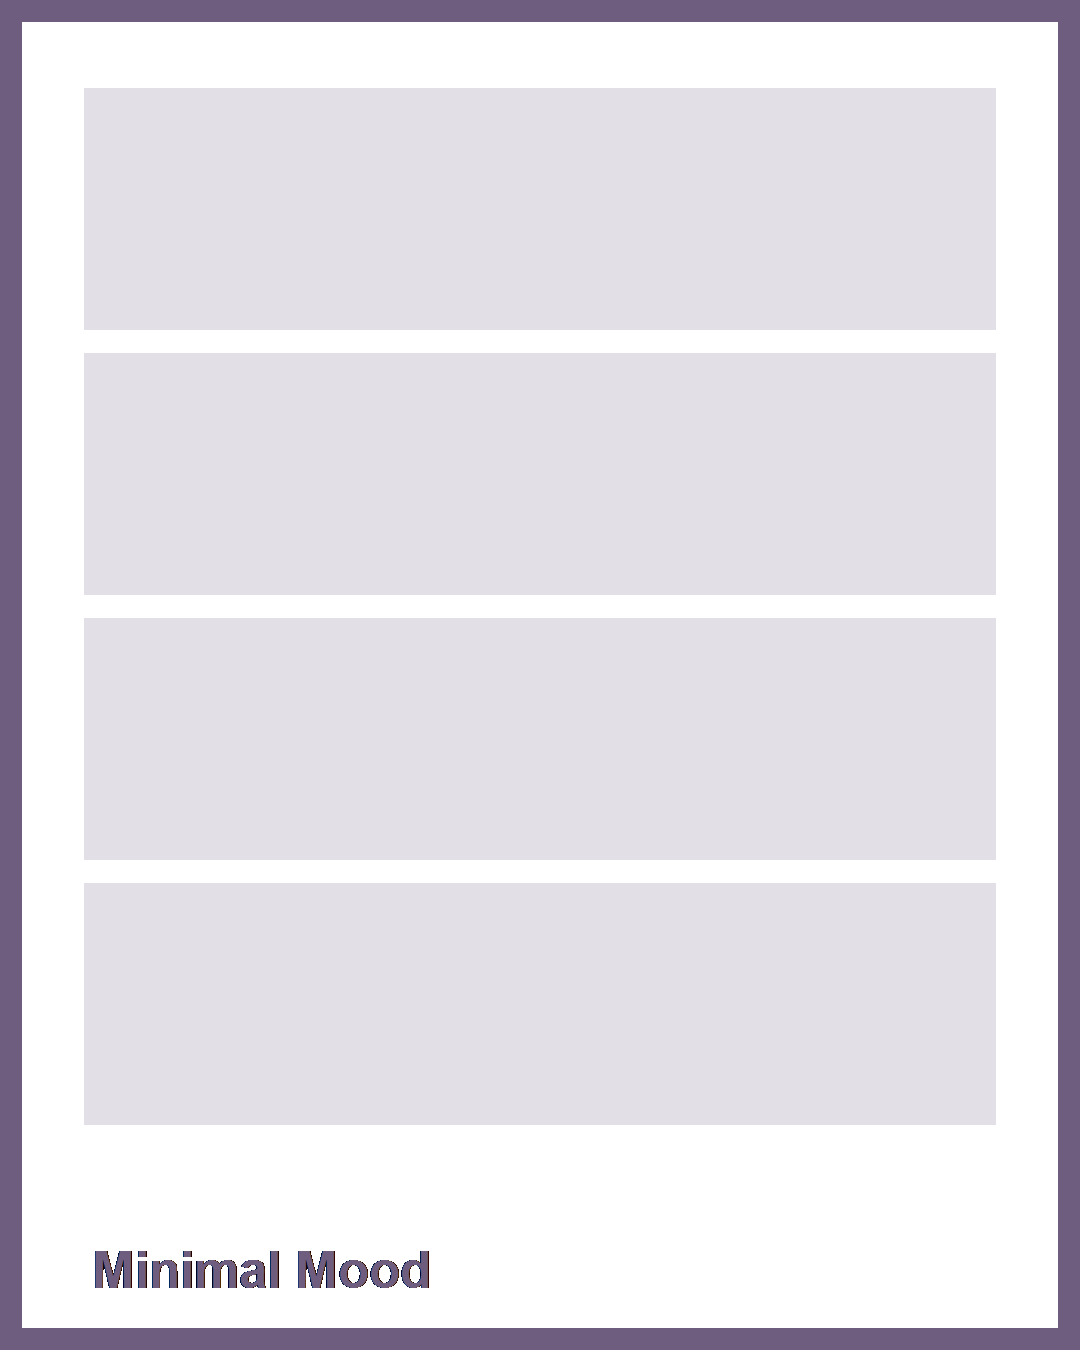
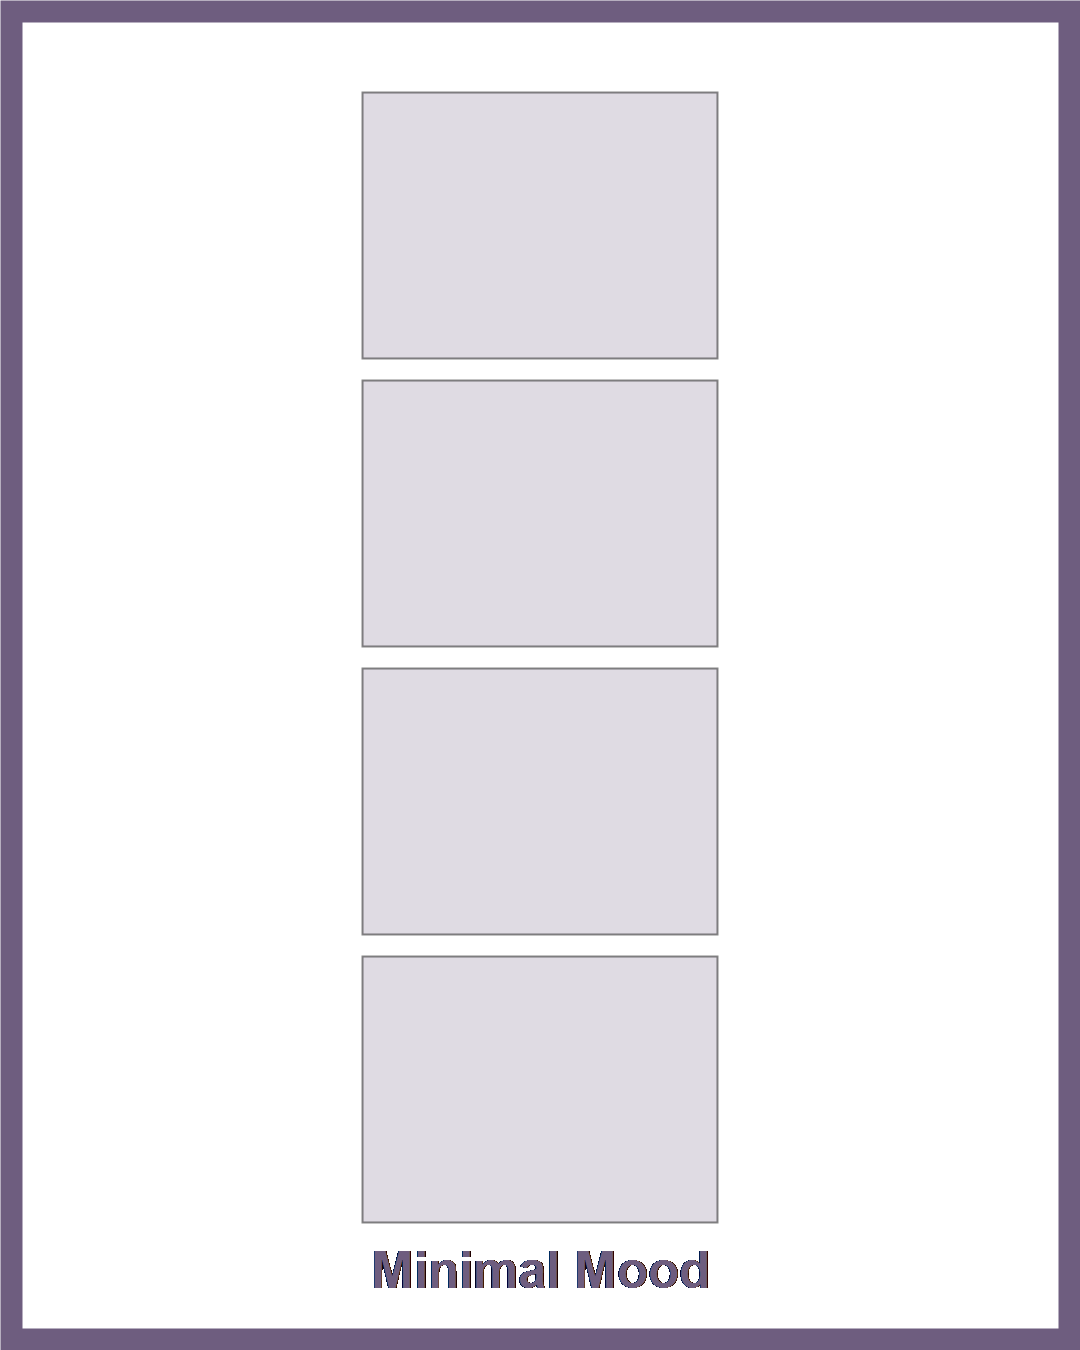
Adjust photo slot ratio to portrait-friendly 4:3 layout

diff --git a/src/lib/canvasRender.ts b/src/lib/canvasRender.ts
@@ -66,14 +66,22 @@ export async function renderPhotoboothImage(options: RenderOptions): Promise<Blo
   ctx.fillRect(0, 0, width, height);
 
   const layout = {
-    left: Math.round(84 * scaleX),
-    top: Math.round(88 * scaleY),
+    side: Math.round(84 * scaleX),
+    top: Math.round(92 * scaleY),
     gap: Math.round(22 * scaleY),
-    bottom: Math.round(210 * scaleY),
+    bottom: Math.round(192 * scaleY),
   };
 
-  const photoWidth = width - layout.left * 2;
-  const photoHeight = Math.floor((height - layout.top - layout.bottom - layout.gap * 3) / 4);
+  const targetAspect = 4 / 3;
+  const availableHeight = height - layout.top - layout.bottom - layout.gap * 3;
+  let photoHeight = Math.floor(availableHeight / 4);
+  let photoWidth = Math.round(photoHeight * targetAspect);
+  const maxPhotoWidth = width - layout.side * 2;
+  if (photoWidth > maxPhotoWidth) {
+    photoWidth = maxPhotoWidth;
+    photoHeight = Math.round(photoWidth / targetAspect);
+  }
+  const photoLeft = Math.round((width - photoWidth) / 2);
 
   ctx.filter = options.filter.canvasFilter;
   for (let i = 0; i < 4; i += 1) {
@@ -81,26 +89,26 @@ export async function renderPhotoboothImage(options: RenderOptions): Promise<Blo
     const y = layout.top + i * (photoHeight + layout.gap);
 
     ctx.fillStyle = "#f4f0ea";
-    ctx.fillRect(layout.left, y, photoWidth, photoHeight);
+    ctx.fillRect(photoLeft, y, photoWidth, photoHeight);
 
     if (photo) {
       try {
         const image = await loadImageFromBlob(photo);
         ctx.save();
         ctx.beginPath();
-        ctx.rect(layout.left, y, photoWidth, photoHeight);
+        ctx.rect(photoLeft, y, photoWidth, photoHeight);
         ctx.clip();
-        drawCover(ctx, image, layout.left, y, photoWidth, photoHeight);
+        drawCover(ctx, image, photoLeft, y, photoWidth, photoHeight);
         ctx.restore();
       } catch {
         ctx.fillStyle = "#DDD";
-        ctx.fillRect(layout.left, y, photoWidth, photoHeight);
+        ctx.fillRect(photoLeft, y, photoWidth, photoHeight);
       }
     }
 
     ctx.strokeStyle = "rgba(0,0,0,0.08)";
     ctx.lineWidth = Math.max(2, Math.round(3 * scaleX));
-    ctx.strokeRect(layout.left, y, photoWidth, photoHeight);
+    ctx.strokeRect(photoLeft, y, photoWidth, photoHeight);
   }
   ctx.filter = "none";
 
